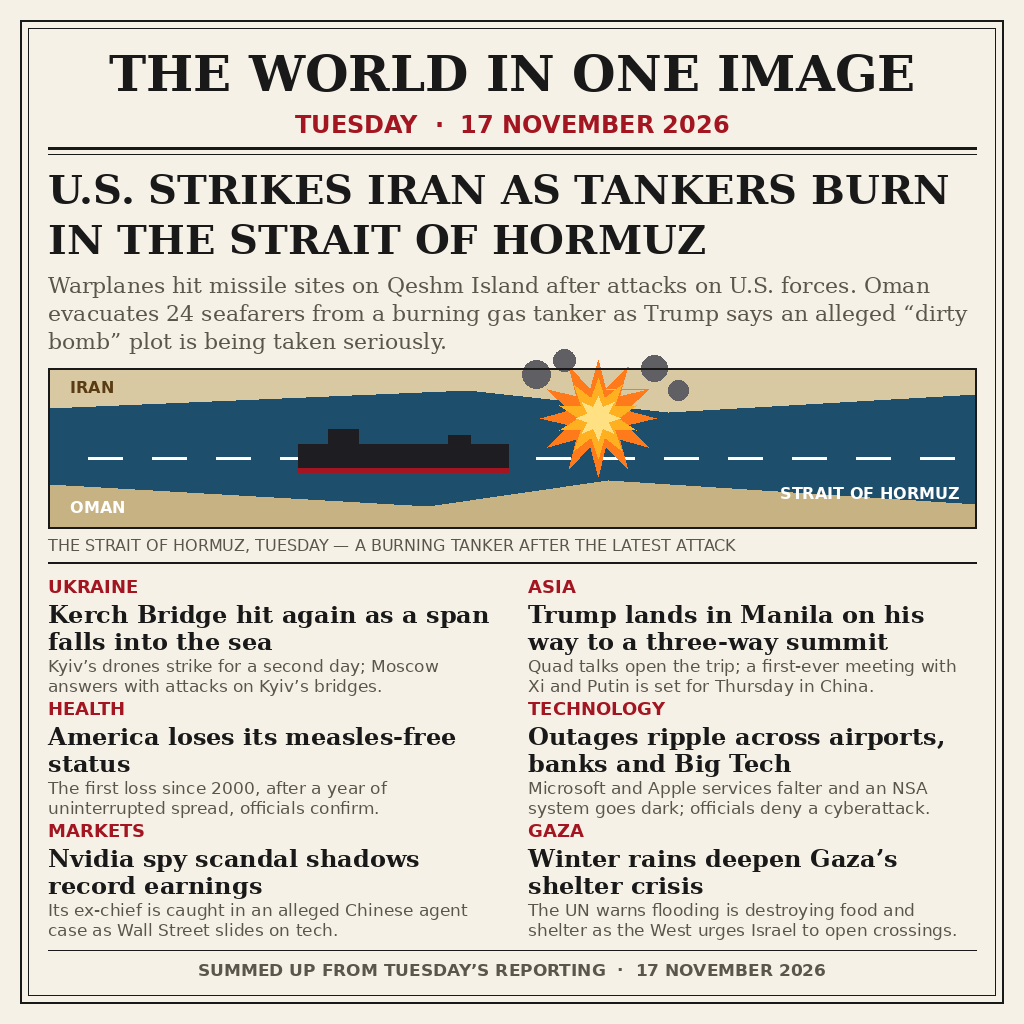
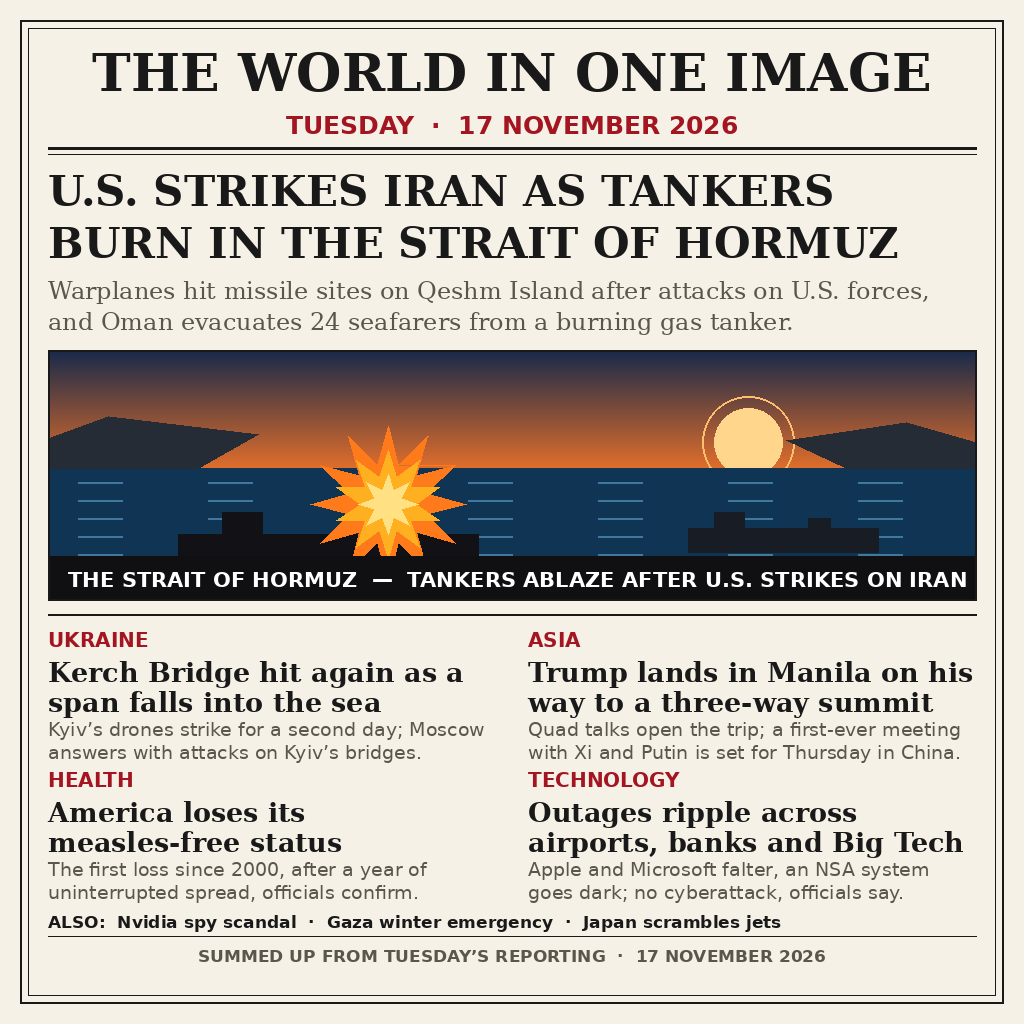
Version 2: dusk hero scene, larger type

diff --git a/draw.py b/draw.py
@@ -1,8 +1,10 @@
 #!/usr/bin/env python3
-"""Draw the entry image: a newspaper front page summing up Tuesday 17 November 2026.
+"""Draw the entry image, version 2: a newspaper front page summing up Tuesday 17 November 2026.
 
 Run: python3 draw.py  ->  writes entry.png (1024x1024, deterministic).
 Only Pillow and the system DejaVu fonts are used; nothing is fetched.
+Compared with v1: a much larger, dusk-lit hero scene of the Strait of Hormuz,
+bigger type, four stories in a 2x2 grid, and one line covering the rest.
 """
 import math
 import os
@@ -16,9 +18,6 @@ PAPER = (246, 241, 231)
 INK = (25, 25, 25)
 MUTED = (90, 86, 76)
 RED = (163, 22, 33)
-SEA = (29, 78, 107)
-SAND = (217, 201, 163)
-SAND_DARK = (199, 178, 132)
 
 FONT_DIR = "/usr/share/fonts/truetype/dejavu"
 
@@ -66,39 +65,54 @@ def starburst(draw, cx, cy, r_outer, r_inner, points, fill):
     draw.polygon(pts, fill=fill)
 
 
-def draw_strait(draw, box):
-    """A stylised Strait of Hormuz: sand on both shores, blue water, a tanker, a blast."""
+def lerp(a, b, t):
+    return tuple(int(a[i] + (b[i] - a[i]) * t) for i in range(3))
+
+
+def draw_hero(draw, box):
+    """Dusk over the Strait of Hormuz: a burning tanker and a second tanker escaping."""
     x0, y0, x1, y1 = box
-    draw.rectangle(box, fill=SEA)
-    # northern shore (top) and southern shore (bottom) as sand polygons
-    draw.polygon([(x0, y0), (x1, y0), (x1, y0 + 26), (x0 + 620, y0 + 44),
-                  (x0 + 420, y0 + 22), (x0, y0 + 40)], fill=SAND)
-    draw.polygon([(x0, y1), (x1, y1), (x1, y1 - 24), (x0 + 560, y1 - 48),
-                  (x0 + 380, y1 - 22), (x0, y1 - 44)], fill=SAND_DARK)
-    # shipping lane dashes
-    mid = (y0 + y1) // 2 + 10
-    for x in range(x0 + 40, x1 - 40, 64):
-        draw.line([(x, mid), (x + 34, mid)], fill=(255, 255, 255), width=3)
-    # tanker silhouette, centre-left
-    tx, ty = x0 + 250, (y0 + y1) // 2 - 4
-    draw.rectangle([tx, ty, tx + 210, ty + 24], fill=(30, 30, 34))
-    draw.rectangle([tx + 30, ty - 15, tx + 60, ty], fill=(30, 30, 34))
-    draw.rectangle([tx + 150, ty - 9, tx + 172, ty], fill=(30, 30, 34))
-    draw.rectangle([tx, ty + 24, tx + 210, ty + 28], fill=RED)
-    # blast above the tanker, centre-right: spiky starburst + smoke
-    bx, by = tx + 300, ty - 26
-    starburst(draw, bx, by, 58, 30, 12, (255, 122, 26))
-    starburst(draw, bx, by, 40, 20, 10, (255, 176, 32))
-    starburst(draw, bx, by, 22, 11, 8, (255, 224, 130))
-    for cx, cy, r in [(bx - 62, by - 44, 14), (bx - 34, by - 58, 11),
-                      (bx + 56, by - 50, 13), (bx + 80, by - 28, 10)]:
-        draw.ellipse([cx - r, cy - r, cx + r, cy + r], fill=(96, 96, 100))
-    # small labels on the scene
-    lab = SANS_B(16)
-    draw.text((x0 + 22, y0 + 10), "IRAN", font=lab, fill=(90, 60, 20))
-    draw.text((x0 + 22, y1 - 30), "OMAN", font=lab, fill=(255, 255, 255))
-    draw.text((x1 - 196, mid + 26), "STRAIT OF HORMUZ", font=lab,
-              fill=(255, 255, 255))
+    horizon = y0 + 118
+    # sky: dusk gradient, deep blue at top to ember orange at the horizon
+    top, bottom = (24, 42, 74), (224, 110, 44)
+    for yy in range(y0, horizon):
+        t = (yy - y0) / max(1, horizon - y0)
+        draw.line([(x0, yy), (x1, yy)], fill=lerp(top, bottom, t))
+    # low sun
+    sx, sy = x0 + 700, horizon - 26
+    draw.ellipse([sx - 34, sy - 34, sx + 34, sy + 34], fill=(255, 214, 140))
+    draw.ellipse([sx - 46, sy - 46, sx + 46, sy + 46], outline=(255, 190, 110), width=2)
+    # sea: dark blue with lighter wave strokes
+    draw.rectangle([x0, horizon, x1, y1], fill=(16, 52, 84))
+    for yy in range(horizon + 14, y1 - 8, 18):
+        for xx in range(x0 + 30, x1 - 60, 130):
+            draw.line([(xx, yy), (xx + 44, yy)], fill=(64, 120, 158), width=2)
+    # distant headlands, left and right
+    draw.polygon([(x0, horizon), (x0 + 150, horizon), (x0 + 210, horizon - 34),
+                  (x0 + 60, horizon - 52), (x0, horizon - 30)], fill=(38, 44, 54))
+    draw.polygon([(x1, horizon), (x1 - 130, horizon), (x1 - 190, horizon - 28),
+                  (x1 - 70, horizon - 46), (x1, horizon - 26)], fill=(38, 44, 54))
+    # burning tanker, centre-left
+    tx, ty = x0 + 130, horizon + 66
+    draw.rectangle([tx, ty, tx + 300, ty + 34], fill=(18, 18, 22))
+    draw.rectangle([tx + 44, ty - 22, tx + 84, ty], fill=(18, 18, 22))
+    draw.rectangle([tx + 210, ty - 14, tx + 238, ty], fill=(18, 18, 22))
+    draw.rectangle([tx, ty + 34, tx + 300, ty + 40], fill=RED)
+    # big fire and smoke over the tanker
+    bx, by = tx + 210, ty - 30
+    starburst(draw, bx, by, 78, 40, 12, (255, 122, 26))
+    starburst(draw, bx, by, 54, 28, 10, (255, 176, 32))
+    starburst(draw, bx, by, 30, 15, 8, (255, 224, 130))
+    # second tanker sailing away, right
+    ux, uy = x0 + 640, horizon + 60
+    draw.rectangle([ux, uy, ux + 190, uy + 24], fill=(24, 28, 36))
+    draw.rectangle([ux + 26, uy - 16, ux + 56, uy], fill=(24, 28, 36))
+    draw.rectangle([ux + 120, uy - 10, ux + 142, uy], fill=(24, 28, 36))
+    # caption strip at the bottom of the panel
+    strip_h = 44
+    draw.rectangle([x0, y1 - strip_h, x1, y1], fill=(16, 16, 18))
+    cap = "THE STRAIT OF HORMUZ  \u2014  TANKERS ABLAZE AFTER U.S. STRIKES ON IRAN"
+    draw.text((x0 + 20, y1 - strip_h + 11), cap, font=SANS_B(21), fill=(255, 255, 255))
 
 
 def main():
@@ -112,13 +126,13 @@ def main():
     d.rectangle([28, 28, W - 29, H - 29], outline=INK, width=1)
 
     # ---- masthead ----
-    y = 44
+    y = 42
     kick = "THE WORLD IN ONE IMAGE"
-    f_kick = SERIF_B(50)
+    f_kick = SERIF_B(52)
     d.text(((W - d.textlength(kick, font=f_kick)) / 2, y), kick, font=f_kick, fill=INK)
-    y += 66
+    y += 68
     date = "TUESDAY  ·  17 NOVEMBER 2026"
-    f_date = SANS_B(24)
+    f_date = SANS_B(25)
     d.text(((W - d.textlength(date, font=f_date)) / 2, y), date, font=f_date, fill=RED)
     y += 38
     d.line([(mx, y), (W - mx, y)], fill=INK, width=3)
@@ -127,30 +141,24 @@ def main():
 
     # ---- lead headline + deck ----
     lead = "U.S. STRIKES IRAN AS TANKERS BURN IN THE STRAIT OF HORMUZ"
-    f_lead = SERIF_B(40)
-    lines = wrap(d, lead, f_lead, cw)
-    y = text_block(d, mx, y, lines, f_lead, INK, 50)
+    f_lead = SERIF_B(42)
+    y = text_block(d, mx, y, wrap(d, lead, f_lead, cw), f_lead, INK, 52)
     y += 6
-    deck = ("Warplanes hit missile sites on Qeshm Island after attacks on U.S. forces. "
-            "Oman evacuates 24 seafarers from a burning gas tanker as Trump says an "
-            "alleged \u201cdirty bomb\u201d plot is being taken seriously.")
-    f_deck = SERIF(22)
-    y = text_block(d, mx, y, wrap(d, deck, f_deck, cw), f_deck, MUTED, 28)
+    deck = ("Warplanes hit missile sites on Qeshm Island after attacks on U.S. forces, "
+            "and Oman evacuates 24 seafarers from a burning gas tanker.")
+    f_deck = SERIF(24)
+    y = text_block(d, mx, y, wrap(d, deck, f_deck, cw), f_deck, MUTED, 31)
     y += 12
 
-    # ---- picture panel ----
-    panel = (mx, y, W - mx, y + 160)
-    draw_strait(d, panel)
+    # ---- hero panel ----
+    panel = (mx, y, W - mx, y + 250)
+    draw_hero(d, panel)
     d.rectangle(panel, outline=INK, width=2)
-    y = panel[3] + 8
-    cap = "THE STRAIT OF HORMUZ, TUESDAY \u2014 A BURNING TANKER AFTER THE LATEST ATTACK"
-    f_cap = SANS(16)
-    d.text((mx, y), cap, font=f_cap, fill=MUTED)
-    y += 26
+    y = panel[3] + 14
     d.line([(mx, y), (W - mx, y)], fill=INK, width=2)
     y += 14
 
-    # ---- six stories, two columns x three rows ----
+    # ---- four stories, two columns x two rows ----
     stories = [
         ("UKRAINE", "Kerch Bridge hit again as a span falls into the sea",
          "Kyiv\u2019s drones strike for a second day; Moscow answers with attacks on Kyiv\u2019s bridges."),
@@ -159,27 +167,26 @@ def main():
         ("HEALTH", "America loses its measles-free status",
          "The first loss since 2000, after a year of uninterrupted spread, officials confirm."),
         ("TECHNOLOGY", "Outages ripple across airports, banks and Big Tech",
-         "Microsoft and Apple services falter and an NSA system goes dark; officials deny a cyberattack."),
-        ("MARKETS", "Nvidia spy scandal shadows record earnings",
-         "Its ex-chief is caught in an alleged Chinese agent case as Wall Street slides on tech."),
-        ("GAZA", "Winter rains deepen Gaza\u2019s shelter crisis",
-         "The UN warns flooding is destroying food and shelter as the West urges Israel to open crossings."),
+         "Apple and Microsoft falter, an NSA system goes dark; no cyberattack, officials say."),
     ]
     col_w = (cw - 32) // 2
-    row_h = 122
+    row_h = 140
     for i, (kicker, head, body) in enumerate(stories):
         col, row = i % 2, i // 2
         x = mx + col * (col_w + 32)
         yy = y + row * row_h
-        d.text((x, yy), kicker, font=SANS_B(18), fill=RED)
-        yy += 24
-        yy = text_block(d, x, yy, wrap(d, head, SERIF_B(24), col_w),
-                        SERIF_B(24), INK, 27)
-        yy = text_block(d, x, yy + 2, wrap(d, body, SANS(17), col_w),
-                        SANS(17), MUTED, 20)
-    y += 3 * row_h + 8
+        d.text((x, yy), kicker, font=SANS_B(20), fill=RED)
+        yy += 28
+        yy = text_block(d, x, yy, wrap(d, head, SERIF_B(27), col_w),
+                        SERIF_B(27), INK, 30)
+        yy = text_block(d, x, yy + 2, wrap(d, body, SANS(19), col_w),
+                        SANS(19), MUTED, 23)
+    y += 2 * row_h + 4
 
-    # ---- footer ----
+    # ---- also line + footer ----
+    also = "ALSO:  Nvidia spy scandal  ·  Gaza winter emergency  ·  Japan scrambles jets"
+    d.text((mx, y), also, font=SANS_B(17), fill=INK)
+    y += 24
     d.line([(mx, y), (W - mx, y)], fill=INK, width=1)
     foot = "SUMMED UP FROM TUESDAY\u2019S REPORTING  ·  17 NOVEMBER 2026"
     f_foot = SANS_B(17)
